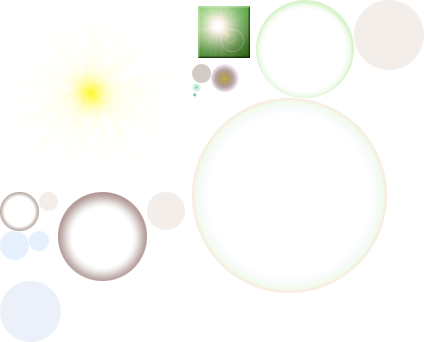
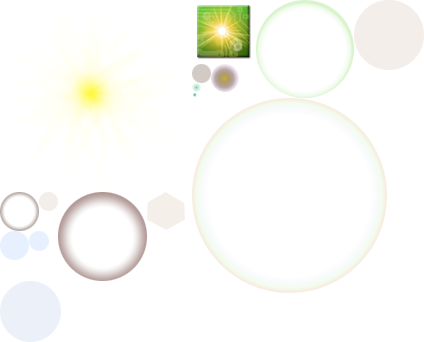
Umweltregelgrafiken aktualisiert. Siegessound für Occupation. Blendgranatenzündungszeit nun gleich wie bei Handgranaten. 2 neue Abwehrschild-Abprallsounds.

Changed region(s): [[0.4599, 0.0, 0.6132, 0.1754]]

diff --git a/cmcrepos/ModernCombat.c4d/Goals.c4d/Occupation.c4d/Script.c b/cmcrepos/ModernCombat.c4d/Goals.c4d/Occupation.c4d/Script.c
@@ -383,7 +383,7 @@ public func IsFulfilled()
 
     Evaluation();
     Message("@<c %x>$WinMsg$</c>",0,GetTeamColor(i),GetTeamName(i));
-      
+    Sound("Cheer.ogg",true);
     return true;
   }
   

diff --git a/cmcrepos/ModernCombat.c4d/Items.c4d/Grenades.c4d/StunGrenade.c4d/Script.c b/cmcrepos/ModernCombat.c4d/Items.c4d/Grenades.c4d/StunGrenade.c4d/Script.c
@@ -3,7 +3,6 @@
 #strict
 #include NADE
 
-public func FuseTime(){return(2*35);}
 public func Color(){return(RGB(0,128,255));}
 public func ContainedDamage(){return(20);}
 

diff --git a/cmcrepos/ModernCombat.c4d/Items.c4d/Grenades.c4d/FragGrenade.c4d/Shrapnel.c4d/Script.c b/cmcrepos/ModernCombat.c4d/Items.c4d/Grenades.c4d/FragGrenade.c4d/Shrapnel.c4d/Script.c
@@ -1,5 +1,8 @@
+/*-- Splitter --*/
+
 #strict
 #include SHTX
+
 
 local hitcnt,size,trail_len;
 
